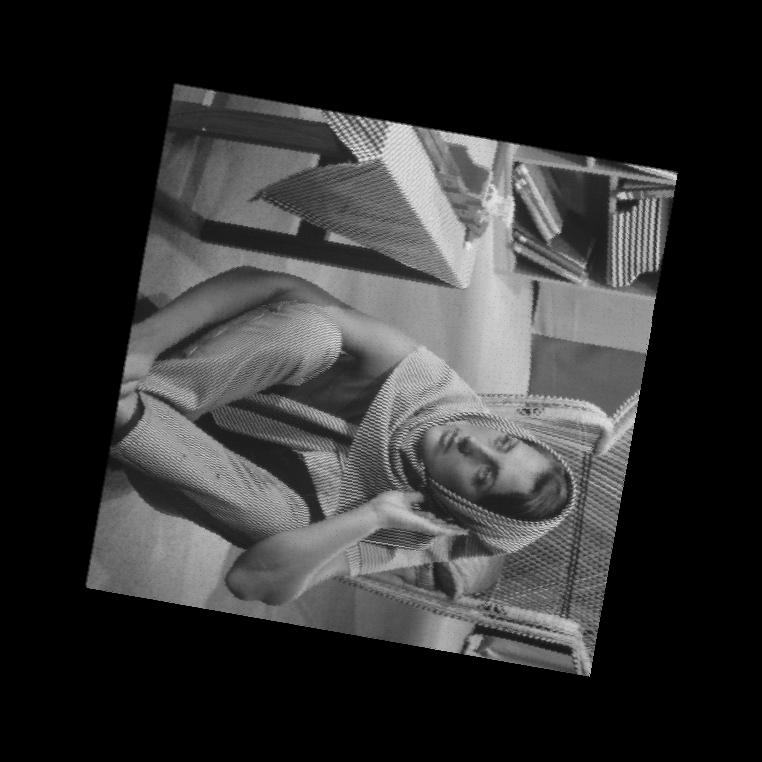
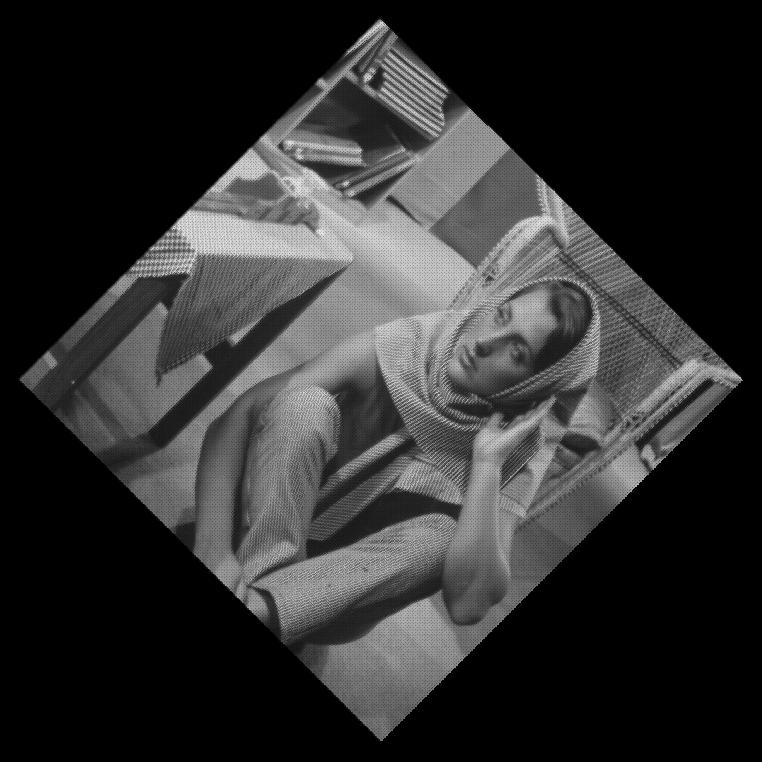
Add final comments to code

diff --git a/Tarea 1/Parte1/parte1_p3.py b/Tarea 1/Parte1/parte1_p3.py
@@ -6,6 +6,16 @@ import matplotlib.pyplot as plt
 
 def getNewPos(comp, angle, pix_x, pix_y, rot_x,
               rot_y):  # Makes all the translation of the old components to the rotated components
+    """
+    Calcula la nueva posicion del pixel dependiendo de si es rotacion en x o en y
+    :param comp: componente en que se quiere rotar
+    :param angle: angulo de rotación
+    :param pix_x: pixel en x
+    :param pix_y: pixel en y
+    :param rot_x: la rotación que se quiere aplicar en x
+    :param rot_y: la rotación que se quiere aplicar en y
+    :return: nueva posicion en la componente indicada
+    """
     if (comp == 'x'):
         a0 = np.cos(angle)
         a1 = np.sin(angle)
@@ -47,7 +57,7 @@ def rotacion(I, ang):
     return Y
 
 I = Image.open('barbara.jpg', 'r').convert('L')
-ang = np.pi / 1.8
+ang = np.pi / 4
 Y = rotacion(I, ang)
 Y.save("rotation.jpg")
 
@@ -64,6 +74,7 @@ canvas.add_subplot(1, 3, 1)
 
 plt.imshow(I, cmap='gray')
 plt.title("Original")
+I.save('Original_rotacion.jpg')
 
 canvas.add_subplot(1, 3, 2)
 plt.imshow(Y_media, cmap='gray')

diff --git a/Tarea 1/Parte1/parte1_p1.py b/Tarea 1/Parte1/parte1_p1.py
@@ -3,6 +3,15 @@ from PIL import Image
 import matplotlib.pyplot as plt
 
 def getPixel(M, r_m, c_m, x, y):
+    """
+        Est función verifica que se pueda acceder a un pixel de la imagen y que no se salga
+        :param M: Matrix
+        :param r_m: columnas
+        :param c_m:  filas
+        :param x: posicion en x
+        :param y:  posicion en y
+        :return: pixel que se quiere acceder
+        """
     if (0 <= x and x < r_m) and (0 <= y and y < c_m):
         return M[x, y]
     else:

diff --git a/Tarea 1/Parte1/parte1_p2.py b/Tarea 1/Parte1/parte1_p2.py
@@ -3,6 +3,15 @@ from PIL import Image
 import matplotlib.pyplot as plt
 
 def getPixel(M, r_m, c_m, x, y):
+    """
+    Est función verifica que se pueda acceder a un pixel de la imagen y que no se salga
+    :param M: Matrix
+    :param r_m: columnas
+    :param c_m:  filas
+    :param x: posicion en x
+    :param y:  posicion en y
+    :return: pixel que se quiere acceder
+    """
     if (0 <= x and x < r_m) and (0 <= y and y < c_m):
         return M[x, y]
     else:
